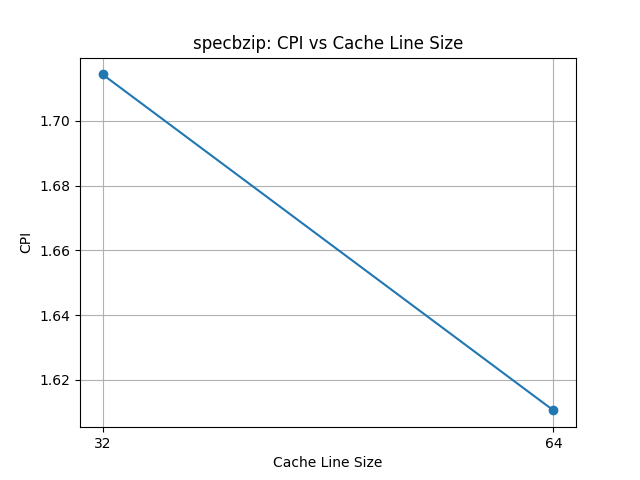
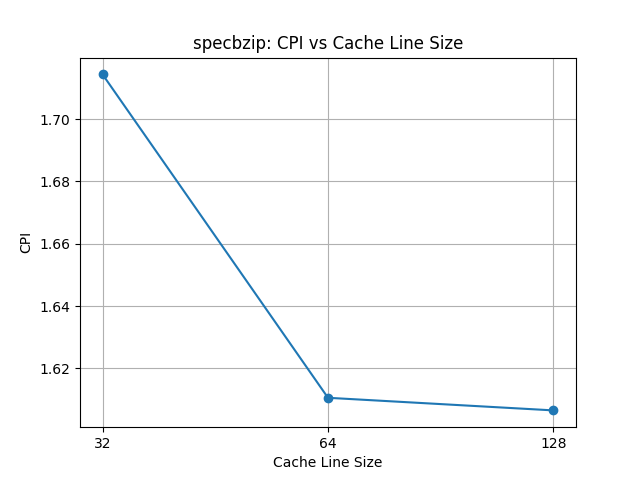
Results for larget cache line size

diff --git a/plotting/specsjeng-performance.py b/plotting/specsjeng-performance.py
@@ -20,7 +20,7 @@ l1d_sizes = ["16kB", "32kB", "64kB", "128kB"]
 l1d_assocs = ["1", "2", "4"]
 l2_sizes = ["1MB", "2MB", "4MB"]
 l2_assocs = ["4", "8", "16"]
-line_sizes = ["16", "32", "64"]
+line_sizes = ["16", "32", "64", "128"]
 
 def get_cpi_from_stats(stats_path):
     if not os.path.isfile(stats_path):

diff --git a/plotting/specbzip-performance.py b/plotting/specbzip-performance.py
@@ -18,7 +18,7 @@ base_line_size = "64"
 
 l1d_sizes = ["16kB", "32kB", "64kB", "128kB"]
 l2_sizes = ["1MB", "2MB", "4MB"]
-line_sizes = ["32", "64"]
+line_sizes = ["32", "64", "128"]
 
 def get_cpi_from_stats(stats_path):
     if not os.path.isfile(stats_path):

diff --git a/README.md b/README.md
@@ -447,7 +447,7 @@ These two benchmarks exhibited the worst performance (highest CPI) in the base c
 - **L2 size**: 1, 2, 4 MB
 - **L2 associativity**: 4, 8, 16 
 - **Cache line size**:
-  - **specsjeng**: Since sjeng works with tree structures and pointers, it is less likely to benefit from spatial locality. Therefore, we tested smaller cache line sizes than the baseline: 16, 32, 64 B.
+  - **specsjeng**: Since sjeng works with tree structures and pointers, it is less likely to benefit from spatial locality. Therefore, we tested smaller cache line sizes than the baseline: 16, 32, 64, 128 B.
   - **speclibm**: libm operates on a 3D grid and may benefit from spatial locality. Thus, we tested larger cache line sizes: 32, 64, 128 B.
 
 #### **specbzip**
@@ -461,7 +461,7 @@ The values tested were:
 
 - **L1D size**: 16, 32, 64, 128 kB
 - **L2 size**: 1, 2, 4 MB
-- **Cache line size**: 32, 64 B
+- **Cache line size**: 32, 64, 128 B
 
 #### **specmcf**
 
@@ -484,8 +484,8 @@ spechmmer demonstrated excellent overall performance at the base configuration, 
 
 The values tested were:
 
-- **L1I size**: 16, 32 kB
-- **L1D size**: 16, 32, 64 kB
-- **L2 size**: 1, 2 MB
+- **L1I size**: 16, 32, 64 kB
+- **L1D size**: 16, 32, 64, 128 kB
+- **L2 size**: 1, 2, 4 MB
 
 ### Question 3
